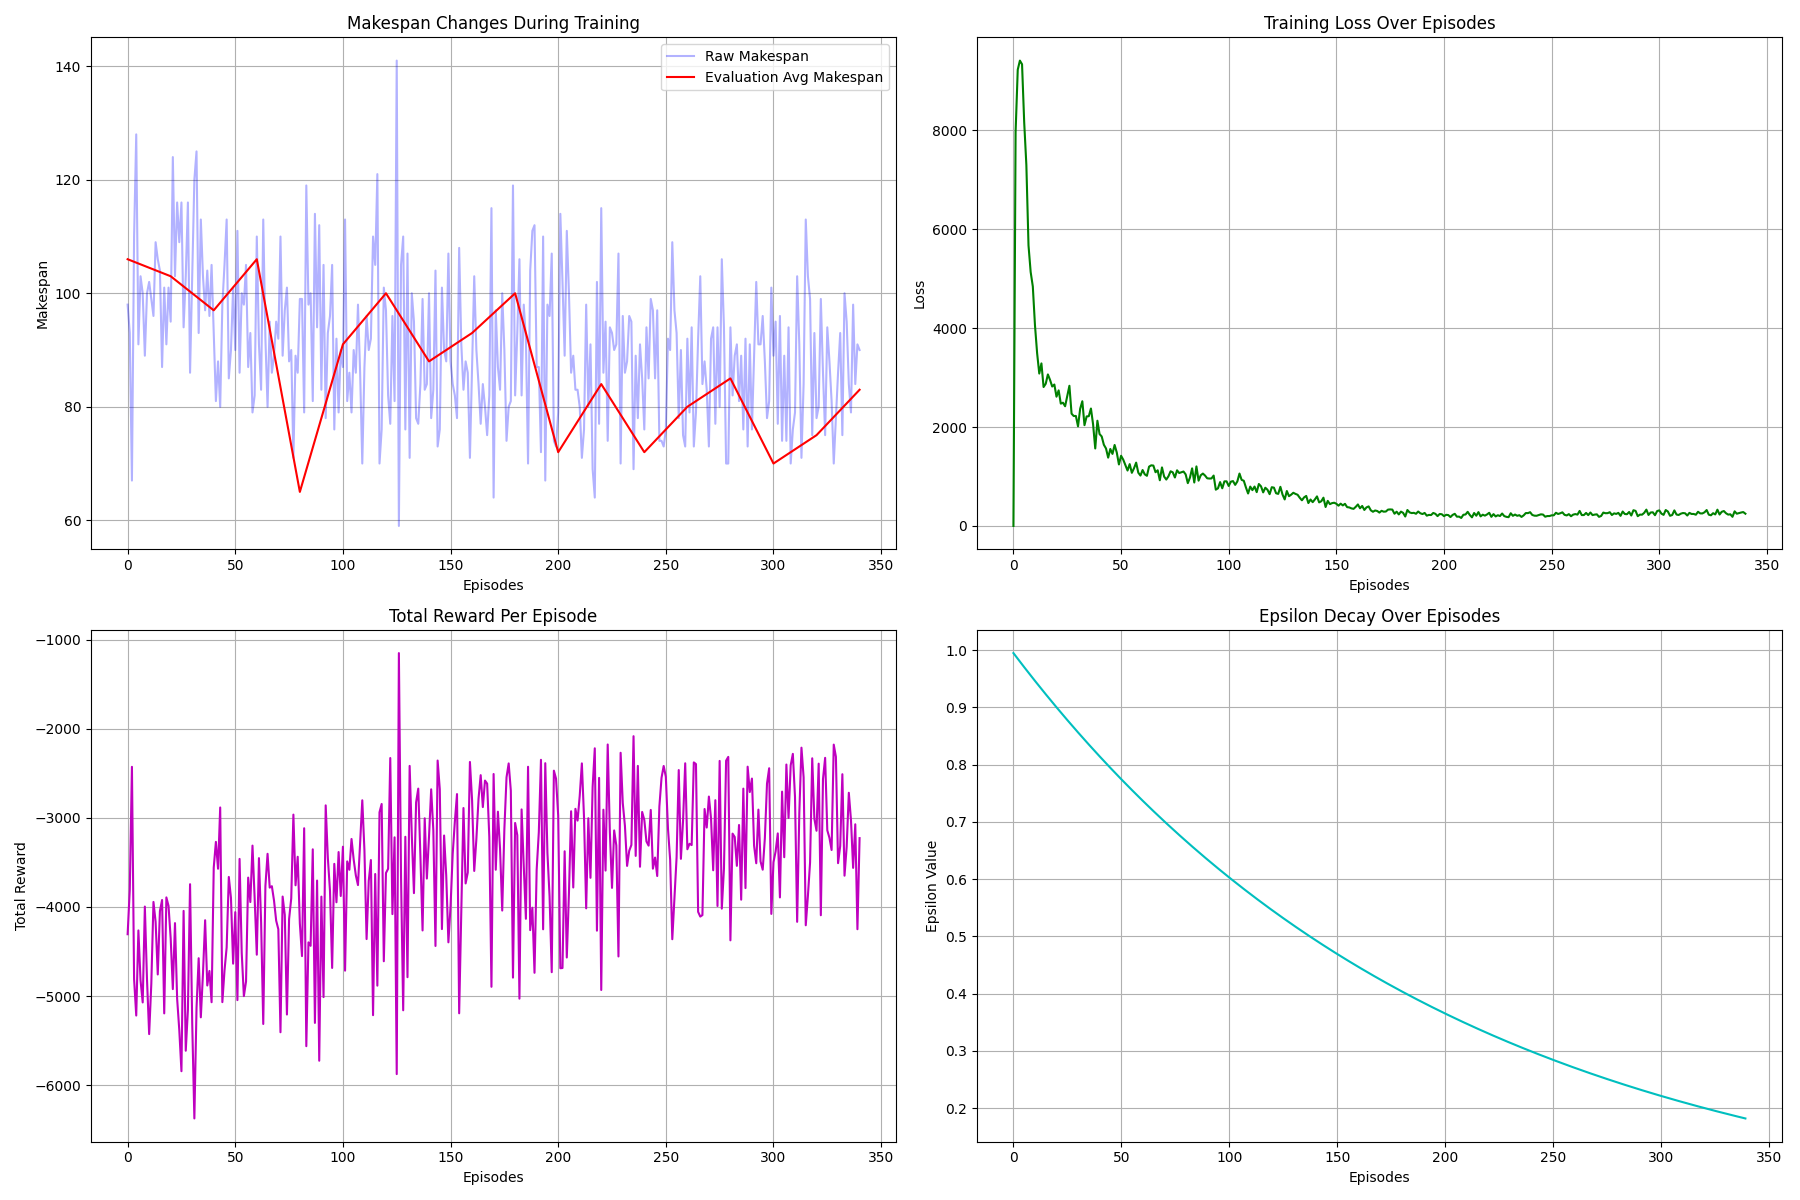
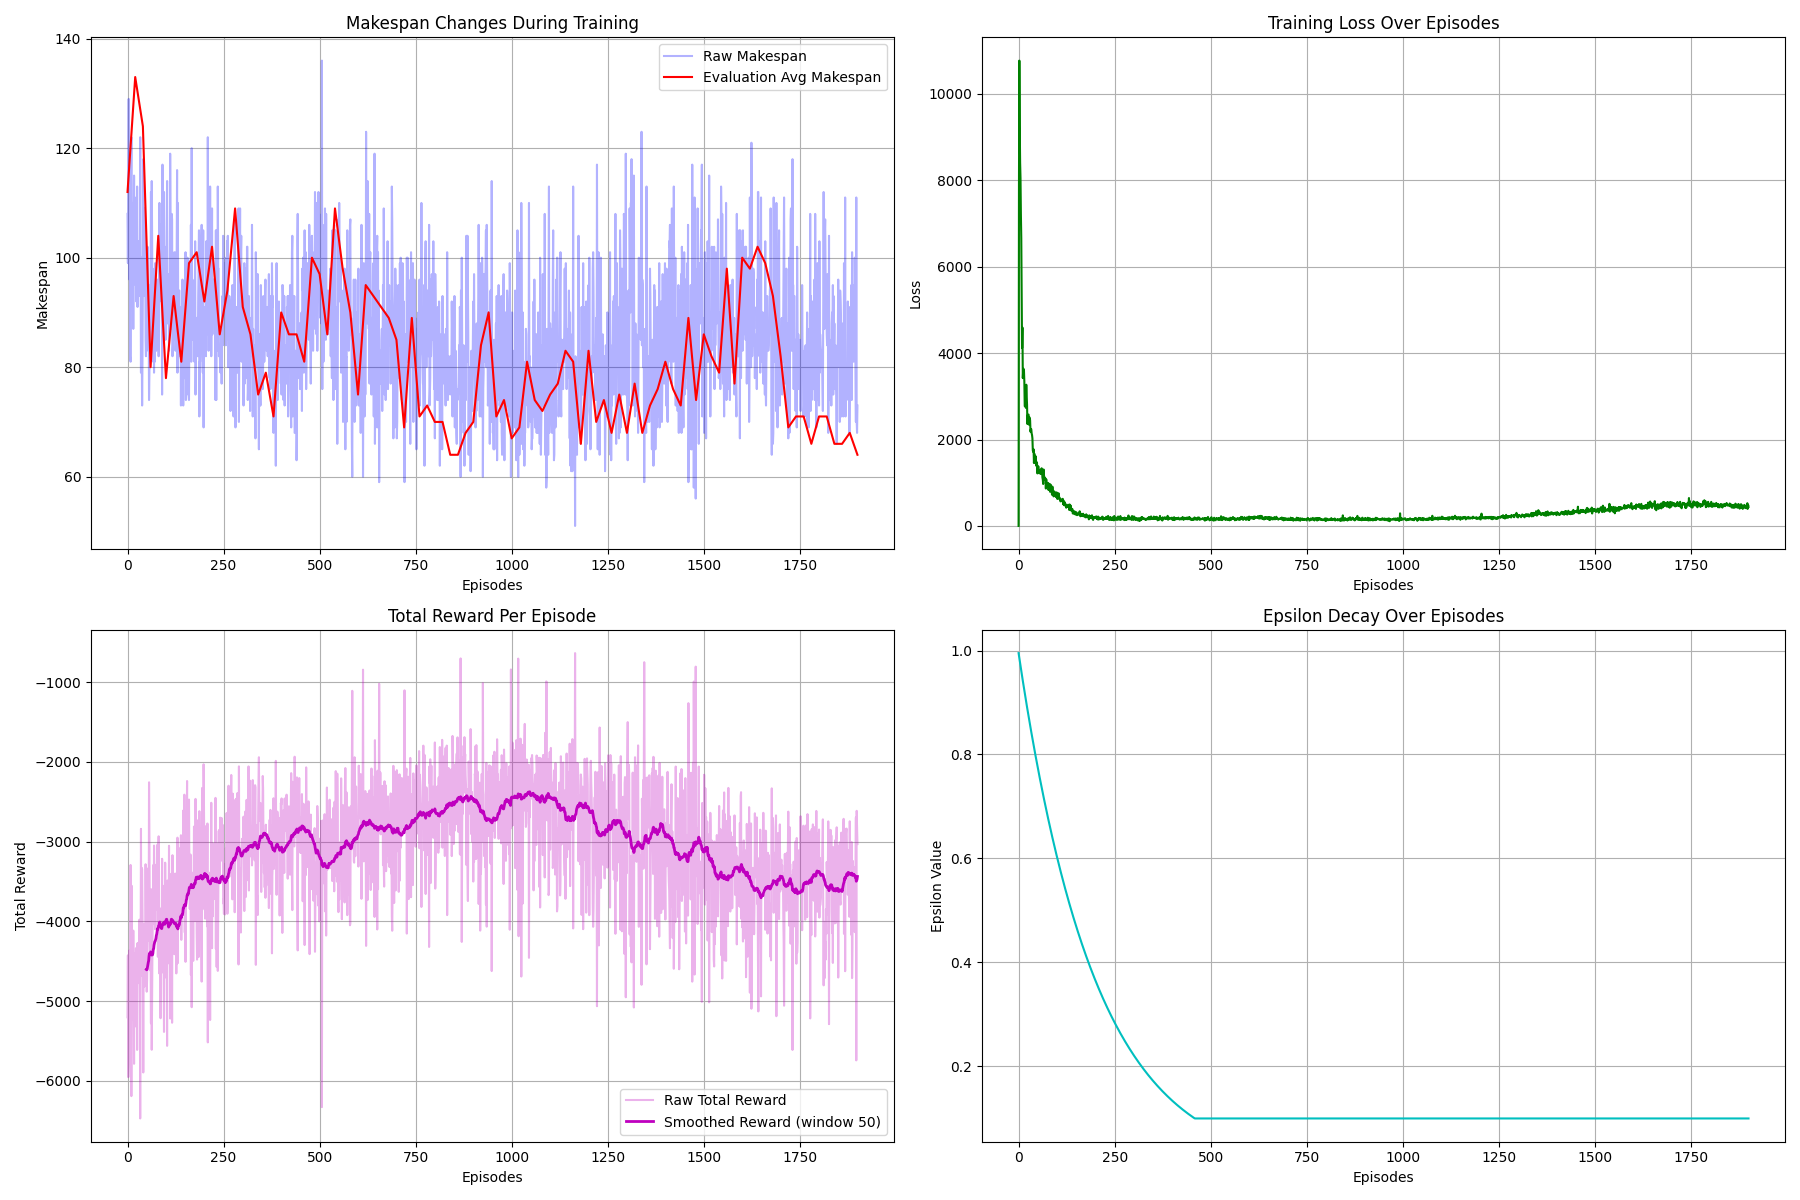
提升到51

diff --git a/train_dqn.py b/train_dqn.py
@@ -19,9 +19,9 @@ action_size = env.action_space.n
 agent = DQNAgent(state_size, action_size)
 
 # 训练参数调整
-n_episodes = 3000  # 增加训练轮数
+n_episodes = 10000  # 增加训练轮数
 batch_size = 64  # 增大批次大小提高稳定性
-test_freq = 20  # 减少评估频率
+test_freq = 30  # 减少评估频率
 best_makespan = float('inf')
 best_schedule = None
 makespans = []
@@ -31,8 +31,8 @@ episode_rewards = [] # 新增：记录每轮的总奖励
 epsilon_values = [] # 新增：记录每轮的探索率
 
 # 收敛指标 - 更合理的设置
-convergence_window = 50  # 检查连续50次评估的表现
-early_stopping_patience = 200  # 减少提前停止的耐心值
+convergence_window = 100  # 检查连续50次评估的表现
+early_stopping_patience = 10000  # 减少提前停止的耐心值
 target_performance = None  # 将在前100轮训练后动态设置
 min_epsilon = 0.1  # 最小探索率
 
@@ -41,7 +41,7 @@ window_makespans = []
 
 # 在训练循环开始前添加探索率衰减逻辑
 epsilon = 1.0  # 初始探索率
-epsilon_decay = 0.995  # 每轮衰减率
+epsilon_decay = 0.99  # 每轮衰减率
 
 # 训练循环
 for episode in range(n_episodes):
@@ -218,10 +218,20 @@ if losses:
 
 # 每轮总奖励图
 if episode_rewards:
-    axs[1, 0].plot(episode_rewards, 'm-')
+    axs[1, 0].plot(episode_rewards, 'm-', alpha=0.3, label='Raw Total Reward') # 原始奖励设为半透明
+    # 计算移动平均奖励
+    reward_smoothing_window = 50 # 可以调整窗口大小
+    if len(episode_rewards) >= reward_smoothing_window:
+        smoothed_rewards = np.convolve(episode_rewards, np.ones(reward_smoothing_window)/reward_smoothing_window, mode='valid')
+        # 为了对齐x轴，移动平均线通常会比原始数据短，我们可以调整绘图的起始点
+        axs[1, 0].plot(np.arange(reward_smoothing_window - 1, len(episode_rewards)), smoothed_rewards, 'm-', linewidth=2, label=f'Smoothed Reward (window {reward_smoothing_window})')
+    else: # 如果数据点不足以计算移动平均，则只画原始数据
+        axs[1, 0].plot(episode_rewards, 'm-', linewidth=2, label='Raw Total Reward')
+
     axs[1, 0].set_title('Total Reward Per Episode')
     axs[1, 0].set_xlabel('Episodes')
     axs[1, 0].set_ylabel('Total Reward')
+    axs[1, 0].legend()
     axs[1, 0].grid(True)
 
 # Epsilon 衰减图

diff --git a/Fjsp_env.py b/Fjsp_env.py
@@ -203,7 +203,7 @@ class FJSPEnvironment(gym.Env):
         
         if self.done:
             # 完成所有工序，给予强化奖励
-            return 1000 - current_makespan * 5  # 完成奖励，makespan越小奖励越大
+            return 600 - current_makespan * 5  # 完成奖励，makespan越小奖励越大
         
         # 计算完成的工序百分比
         completed_ops = sum(self.job_status)
@@ -214,9 +214,9 @@ class FJSPEnvironment(gym.Env):
         utilization = 1.0 - (idle_time / (self.n_machines * current_makespan) if current_makespan > 0 else 0)
         
         # 组合奖励
-        progress_reward = completion_percentage * 2.0  # 进度奖励
-        time_reward = -2.0 * current_makespan  # 时间惩罚
-        balance_reward = utilization * 5.0  # 利用率奖励
+        progress_reward = completion_percentage * 20.0  # 进度奖励
+        time_reward = -20.0 * current_makespan  # 时间惩罚
+        balance_reward = utilization * 80.0  # 利用率奖励
         
         return progress_reward + time_reward + balance_reward
     

diff --git a/Dqn.py b/Dqn.py
@@ -85,11 +85,11 @@ class DQNAgent:
         self.device = torch.device("cuda" if torch.cuda.is_available() else "cpu")
         
         # 超参数调整
-        self.gamma = 0.99  # 折扣因子
+        self.gamma = 0.999  # 折扣因子
         self.epsilon = 1.0  # 探索率
         self.epsilon_min = 0.05  # 最小探索率
-        self.epsilon_decay = 0.997  # 衰减速度
-        self.learning_rate = 0.0004  # 学习率
+        self.epsilon_decay = 0.99  # 衰减速度
+        self.learning_rate = 0.0005  # 学习率
         self.update_target_freq = 50  # 更频繁地更新目标网络
         
         # 使用优先经验回放
